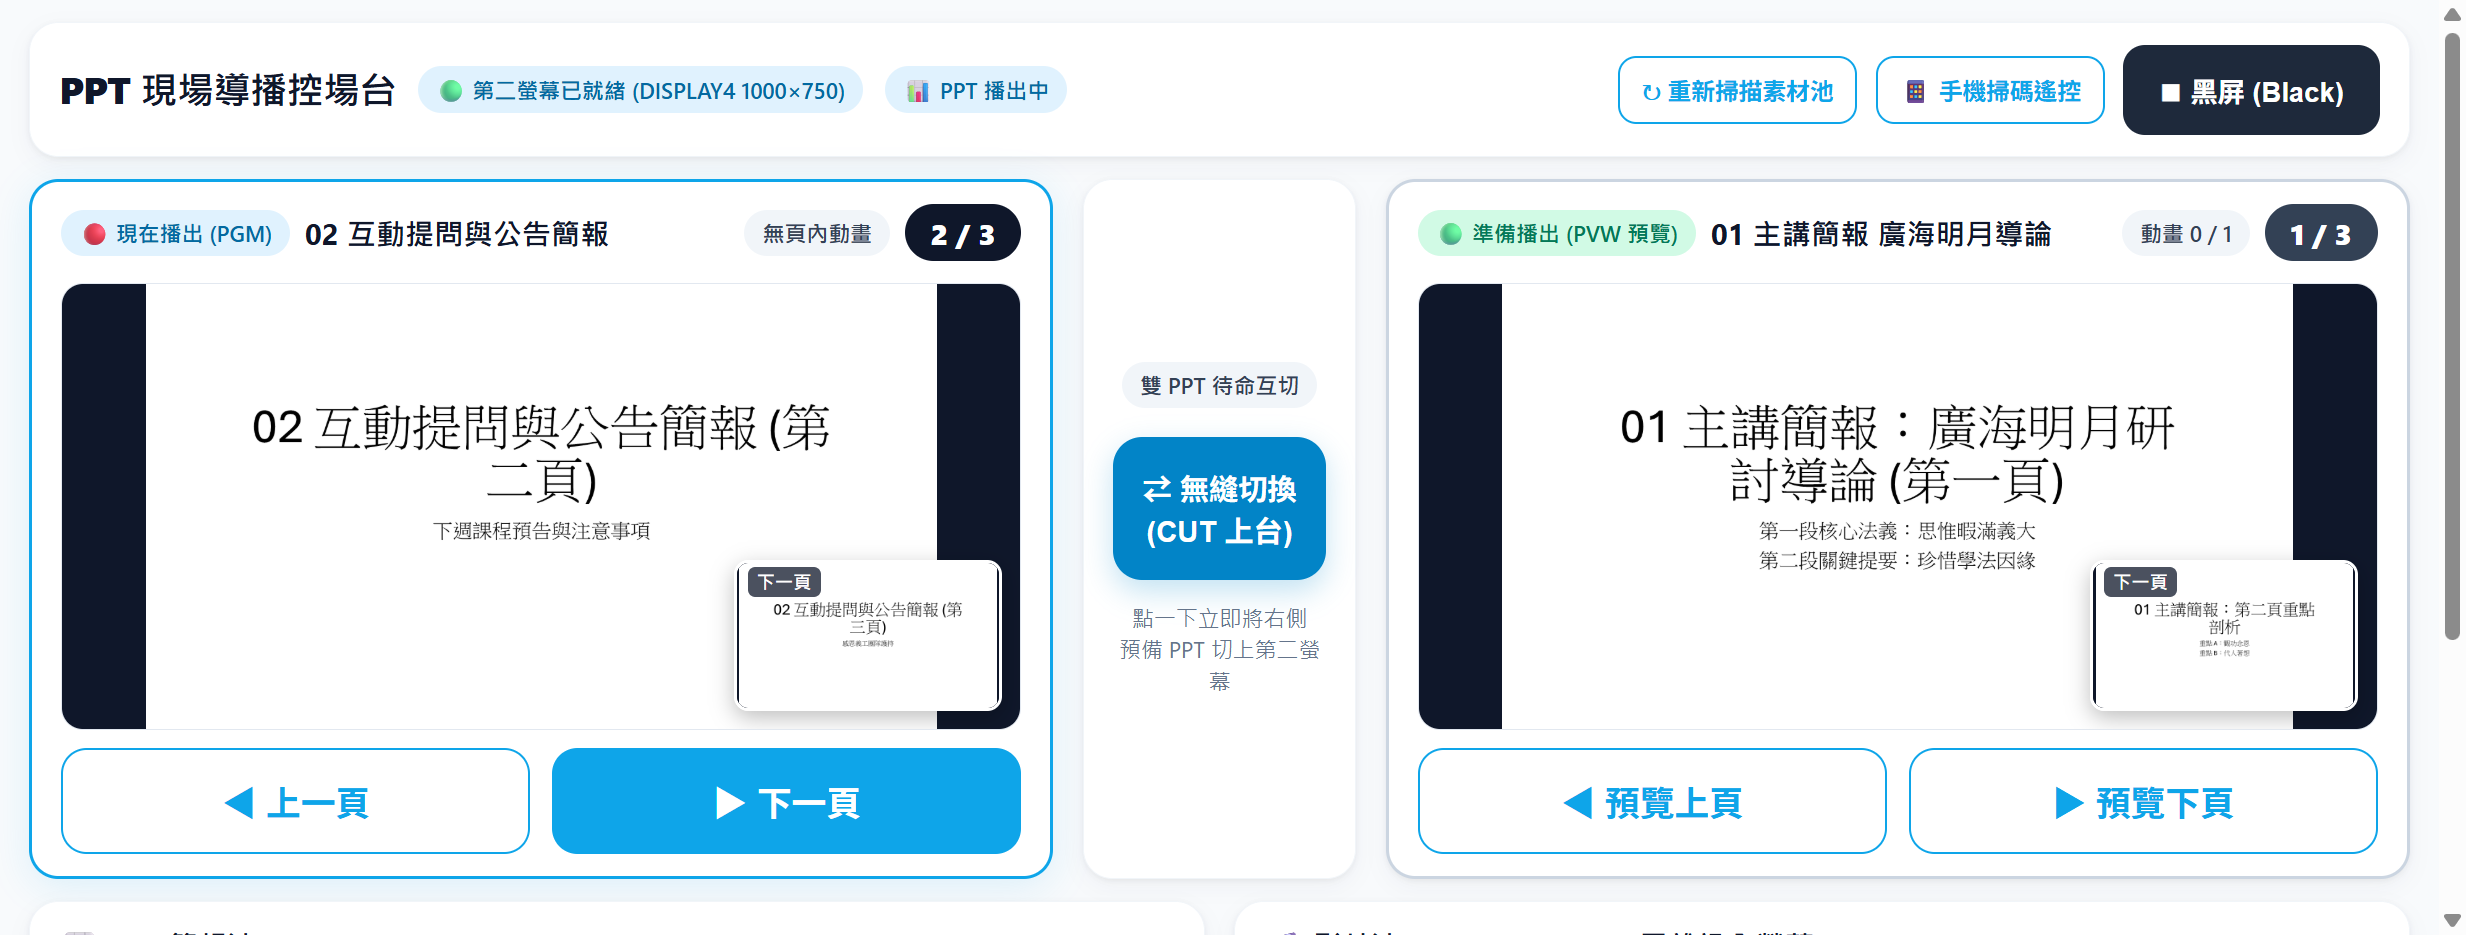
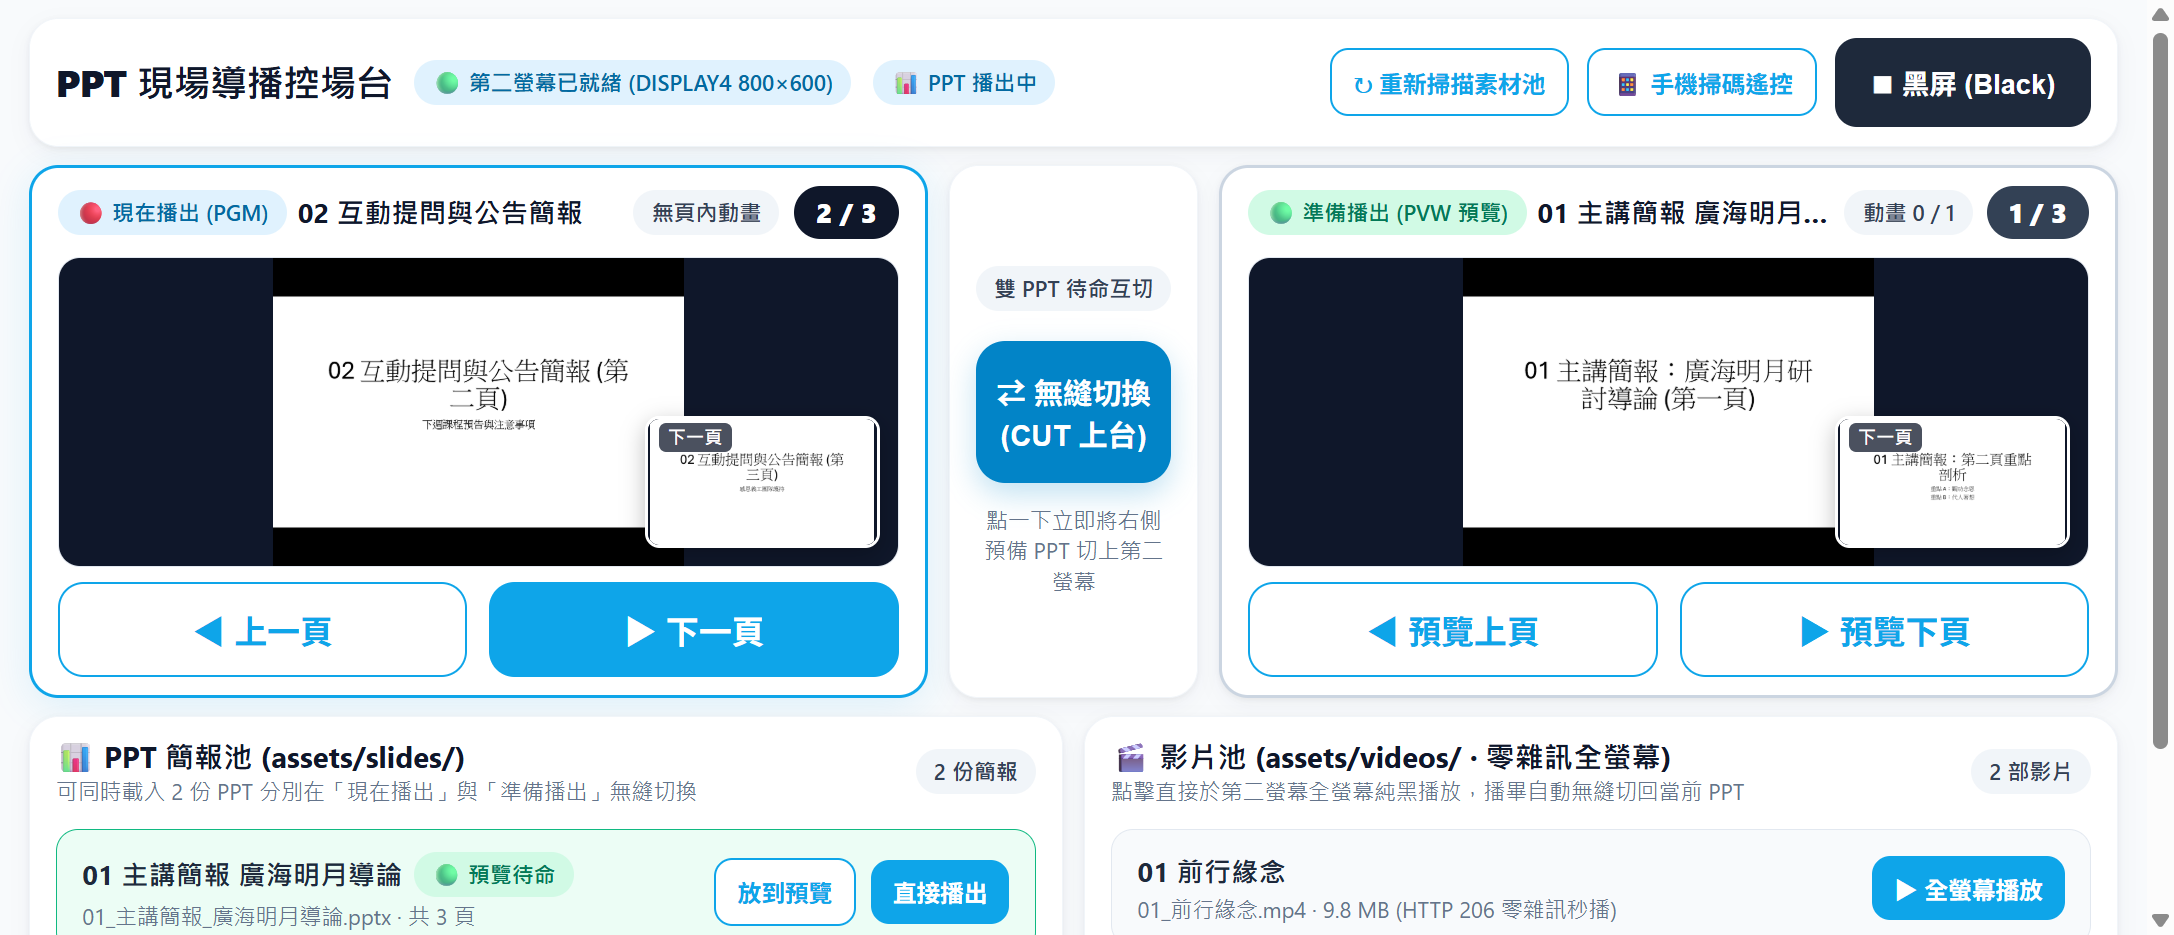
fix(stage-deck): v1.0.2 Per-Monitor DPI V2, live PrintWindow animation preview, WindowFromPoint Z-order lock & grid overflow fix

diff --git a/public/styles.css b/public/styles.css
@@ -35,9 +35,9 @@ body {
   background-color: var(--bg-surface);
   color: var(--text-main);
   font-family: -apple-system, BlinkMacSystemFont, "Segoe UI", "Microsoft JhengHei", Roboto, sans-serif;
-  line-height: 1.45;
+  line-height: 1.4;
   min-height: 100vh;
-  padding: 12px 16px;
+  padding: 10px 16px;
 }
 
 .app-container {
@@ -45,7 +45,7 @@ body {
   margin: 0 auto;
   display: flex;
   flex-direction: column;
-  gap: 12px;
+  gap: 10px;
 }
 
 /* 對標 material-liff-study .card */
@@ -54,7 +54,8 @@ body {
   border-radius: 16px;
   box-shadow: 0 1px 3px rgba(15, 23, 42, 0.06), 0 4px 12px rgba(15, 23, 42, 0.04);
   border: 1px solid #f1f5f9;
-  padding: 12px 16px;
+  padding: 10px 14px;
+  min-width: 0;
 }
 
 .card-pgm {
@@ -124,11 +125,11 @@ body {
 
 /* 超大翻頁控場按鈕 */
 .btn-giant {
-  padding: 14px 20px;
-  font-size: 19px;
+  padding: 12px 18px;
+  font-size: 18px;
   font-weight: 700;
   border-radius: 14px;
-  min-height: 58px;
+  min-height: 50px;
   white-space: nowrap;
 }
 
@@ -226,8 +227,8 @@ body {
 /* 主控雙監視器網格 (PGM | CUT | PVW) */
 .dual-monitor-grid {
   display: grid;
-  grid-template-columns: 1fr 150px 1fr;
-  gap: 16px;
+  grid-template-columns: minmax(0, 1fr) 136px minmax(0, 1fr);
+  gap: 12px;
   align-items: stretch;
 }
 
@@ -244,33 +245,38 @@ body {
   align-items: center;
   justify-content: space-between;
   gap: 8px;
-  margin-bottom: 12px;
+  margin-bottom: 10px;
+  min-width: 0;
 }
 
 .slot-title-wrap {
   display: flex;
   align-items: center;
-  gap: 8px;
+  gap: 6px;
+  flex: 1;
   min-width: 0;
+  overflow: hidden;
 }
 
 .slot-deck-title {
-  font-size: 16px;
+  font-size: 15px;
   font-weight: 700;
   color: #0f172a;
   white-space: nowrap;
   overflow: hidden;
   text-overflow: ellipsis;
+  min-width: 0;
 }
 
 .page-counter-pill {
-  font-size: 16px;
+  font-size: 15px;
   font-weight: 800;
-  padding: 4px 14px;
+  padding: 4px 12px;
   border-radius: 9999px;
   background-color: #0f172a;
   color: #ffffff;
   white-space: nowrap;
+  flex-shrink: 0;
 }
 
 /* 16:9 投影片預覽畫布 */
@@ -278,7 +284,7 @@ body {
   position: relative;
   width: 100%;
   aspect-ratio: 16 / 9;
-  max-height: 245px;
+  max-height: 170px;
   background-color: #f1f5f9;
   border-radius: 12px;
   border: 1px solid var(--border-color);
@@ -286,7 +292,7 @@ body {
   display: flex;
   align-items: center;
   justify-content: center;
-  margin-bottom: 10px;
+  margin-bottom: 8px;
 }
 
 .slide-preview-img {
@@ -330,8 +336,8 @@ body {
 /* 底部雙素材池 (PPT 池 | 影片池) */
 .pools-grid {
   display: grid;
-  grid-template-columns: 1fr 1fr;
-  gap: 16px;
+  grid-template-columns: minmax(0, 1fr) minmax(0, 1fr);
+  gap: 12px;
 }
 
 .pool-header {

diff --git a/public/app.js b/public/app.js
@@ -240,6 +240,12 @@ function connectWebSocket() {
 }
 
 async function init() {
+  try {
+    if (window.outerWidth > window.screen.availWidth - 60) {
+      window.resizeTo(Math.min(1240, window.screen.availWidth - 80), Math.min(800, window.screen.availHeight - 60));
+      window.moveTo(40, 40);
+    }
+  } catch {}
   bindEvents();
   connectWebSocket();
   const res = await fetch('/api/state');

diff --git a/public/stage.html b/public/stage.html
@@ -111,7 +111,7 @@
 
     function connectWs() {
       const proto = window.location.protocol === 'https:' ? 'wss:' : 'ws:';
-      const ws = new WebSocket(`${proto}//${window.location.host}`);
+      const ws = new WebSocket(`${proto}//${window.location.host}/?client=stage`);
       ws.addEventListener('message', (ev) => {
         try {
           const msg = JSON.parse(ev.data);

diff --git a/DEVLOG.md b/DEVLOG.md
@@ -1,5 +1,23 @@
 # PPT Stage Deck - 開發與踩坑日誌 (DEVLOG)
 
+## [v1.0.2] - 2026-11-09 (二次深層實測：DPI 實體座標、即時動畫預覽、Z-Order 覆蓋與版面溢位根治)
+### 症狀與根本原因剖析
+1. **【重大】Per-Monitor DPI 混合縮放（主螢幕 125% + 第二螢幕 100%）導致第二螢幕座標虛報為 `2400,0 1000x750`**：
+   - **原因**：`SetProcessDPIAware()` 僅為舊版 System DPI Awareness（跟隨主螢幕 125%），且 `powershell.exe` 進程初始化後單獨呼叫 `SetProcessDpiAwarenessContext(-4)` 可能回傳 `$false`，導致第二螢幕（實際物理座標 `1920,0 800x600`）被虛報為 `2400,0`，若觸發 `SetWindowPos` 搬移視窗將使簡報偏出螢幕右方 480px。
+   - **解法**：在 `scripts/ppt-com-worker.ps1` 頂部同步調用 `SetThreadDpiAwarenessContext([IntPtr](-4))` 與 `SetProcessDpiAwarenessContext([IntPtr](-4))`，使 `Screen.AllScreens` 100% 精準回報第二螢幕物理座標 `1920,0 800x600`。
+2. **【重大】主控台預覽圖原本僅顯示靜態 `Slide.Export` 圖片，無法反映「情況 2」頁內分段動畫即時進度**：
+   - **原因**：`Slide.Export()` 匯出的是整頁全部動畫結束後的靜態縮圖；當講者在頁內按下一頁（`動畫 0/1 -> 動畫 1/1`）時，主控台預覽圖不會隨之變化。
+   - **解法**：在 `Get-SlotRuntime` 中每次翻頁或觸發頁內動畫後，對 `PGM` 與 `PVW` 之 `screenClass` 視窗調用 `PrintWindow($hwnd, $hdc, 2)` 擷取即時畫面存為 `_live_pgm.png` / `_live_pvw.png`，並透過 `SYNC_PPT_RUNTIME` 推播 `livePreviewUrl`，使主控台預覽畫面與第二螢幕頁內動畫 100% 同步。
+3. **【重大】主控台瀏覽器視窗跨螢幕溢位與 `/stage` 啟動時覆蓋第二螢幕 PowerPoint**：
+   - **原因**：透過 `WindowFromPoint(2320, 300)` 真實探測第二螢幕正中央最上層視窗時，抓出兩處遮擋問題：(a) 新 Profile 啟動 Chrome 時預設視窗寬度達 `2483px`（自第一螢幕 `x=91` 跨越 `1920` 邊界蓋到第二螢幕 `x=2320`）；(b) `server.mjs` 先啟動 PowerPoint 再開啟 `/stage` 視窗時，後開啟的 `/stage` 會浮在 PowerPoint 上方。
+   - **解法**：(a) 鎖定主控台視窗尺寸 `1240x800` 於第一螢幕 `(40,40)` 並在 `app.js` 加入防跨螢幕邊界自適應；(b) `/stage` 連線 WebSocket (`/?client=stage`) 後自動延遲 250ms 重新觸發 `pptEngine.setStageMode(curMode)` 將 `PGM` 簡報拉回第二螢幕 `HWND_TOPMOST` 最上層。
+4. **【重大】影片池播畢 (`STOP_VIDEO` / `VIDEO_ENDED`) 切回 PPT 後，預覽槽 (`PVW`) 視窗維持 `SW_HIDE` 隱藏狀態**：
+   - **原因**：`video` 模式會對所有 PowerPoint `screenClass` 視窗呼叫 `ShowWindow($h, 0)` (`SW_HIDE`)；切回 `ppt` 模式時，`Place-SlideShowOnTargetScreen $pvwEntry $false` 未呼叫 `ShowWindow($hwnd, 8)` (`SW_SHOWNA`)，導致 `PVW` 視窗持續隱藏無法擷取即時預覽。
+   - **解法**：在 `Place-SlideShowOnTargetScreen` 的非置頂分支補上 `[PptWin32]::ShowWindow($hwnd, 8)` (`SW_SHOWNA`)，不搶焦點恢復可見並置於 `HWND_BOTTOM`。
+5. **【UI 版面】CSS Grid `1fr` 預設 `min-width: auto` 造成 `1200px` 視窗下水平捲軸與右側頁碼裁切**：
+   - **原因**：檢視 E2E 實體截圖 `e2e-ppt-stage-deck-live.png` 時發現 `.dual-monitor-grid` 與 `.pools-grid` 使用 `1fr` 而非 `minmax(0, 1fr)`，內部 `white-space: nowrap` 標題撐開網格造成水平捲軸。
+   - **解法**：改為 `minmax(0, 1fr)` 並為 `.card` 與 `.slot-header` 加上 `min-width: 0`，同時於 E2E 測試新增 `scrollWidth <= clientWidth` 零水平溢位硬鎖。
+
 ## [v1.0.1] - 2026-11-09 (真機深層實測與 5 大隱蔽 Bug 根治)
 ### 症狀與根本原因剖析
 1. **【重大】第二螢幕 PPT 視窗白屏死白（`ShowType = 2` + `SetWindowLong` 破壞子視窗裁切）**：
